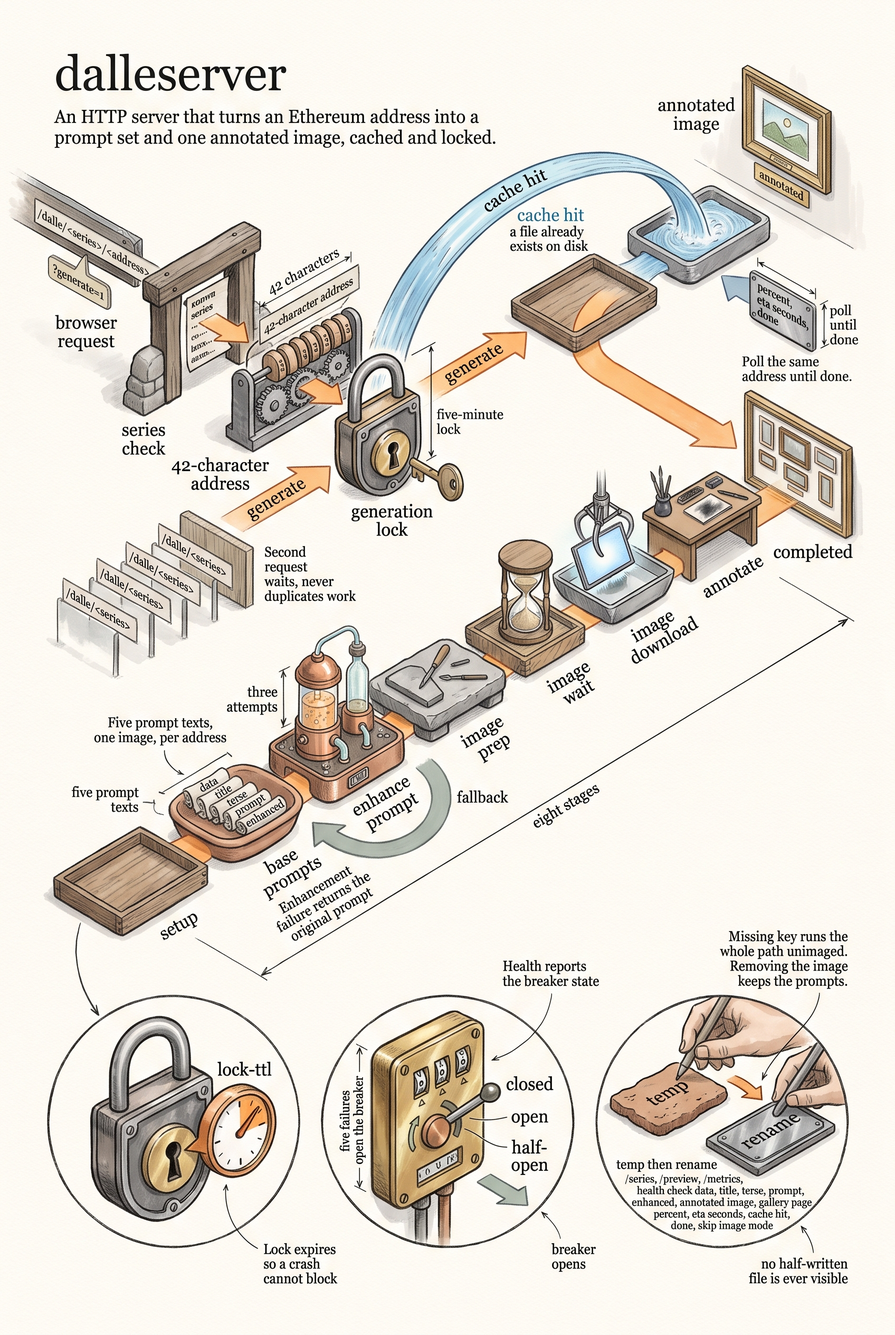
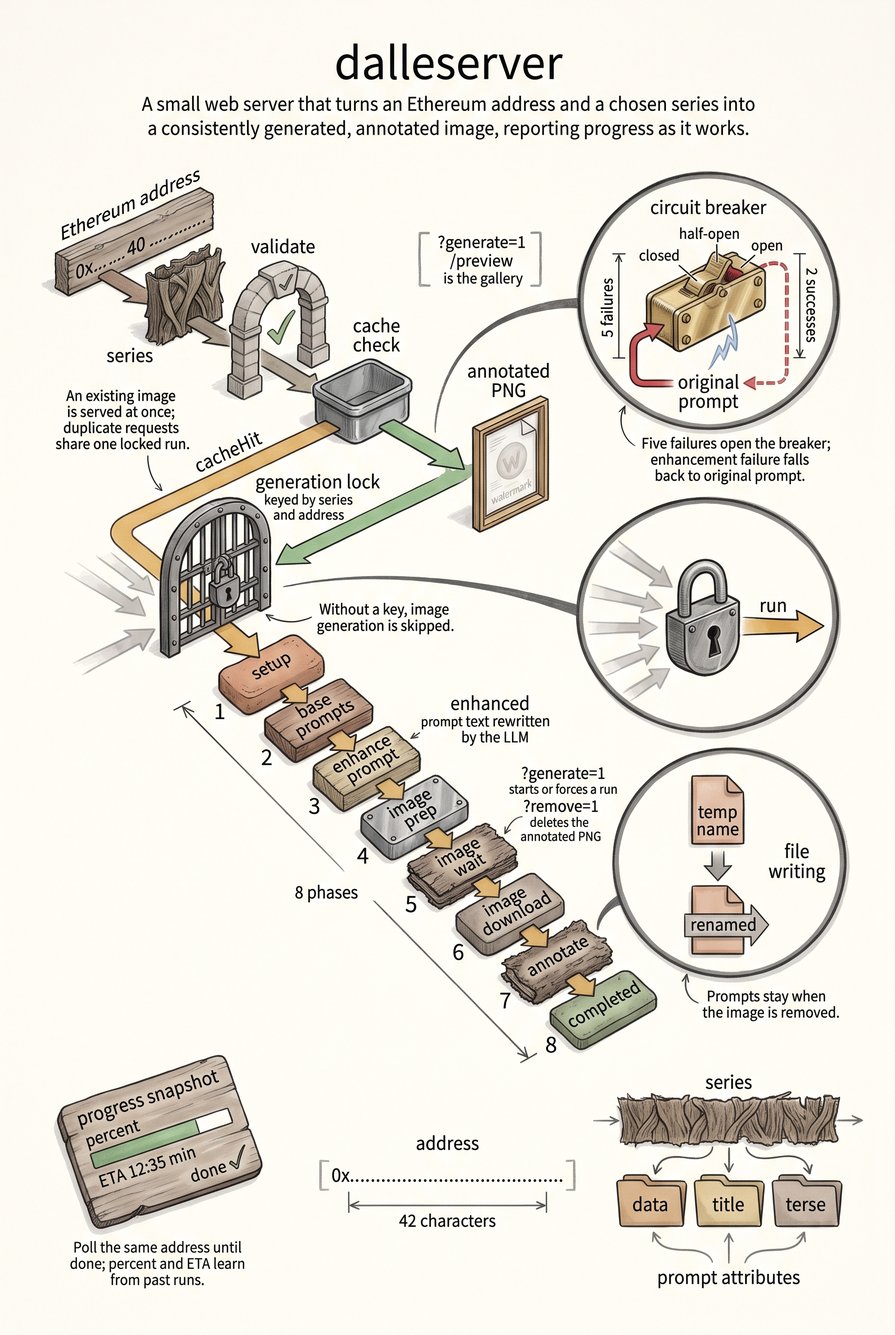
Model role defaults live in data; colorize draws with Gemini (#853); refresh tool infographics

diff --git a/README.md b/README.md
@@ -153,7 +153,7 @@ Derived sub-directories (created automatically):
   series/          # JSON series definition files
 ```
 
-The server fails fast on startup if the data directory cannot be created or written.
+The server attempts to create the output directory on startup; a failure to create it is currently ignored rather than aborting startup.
 
 ## Direct library usage
 
